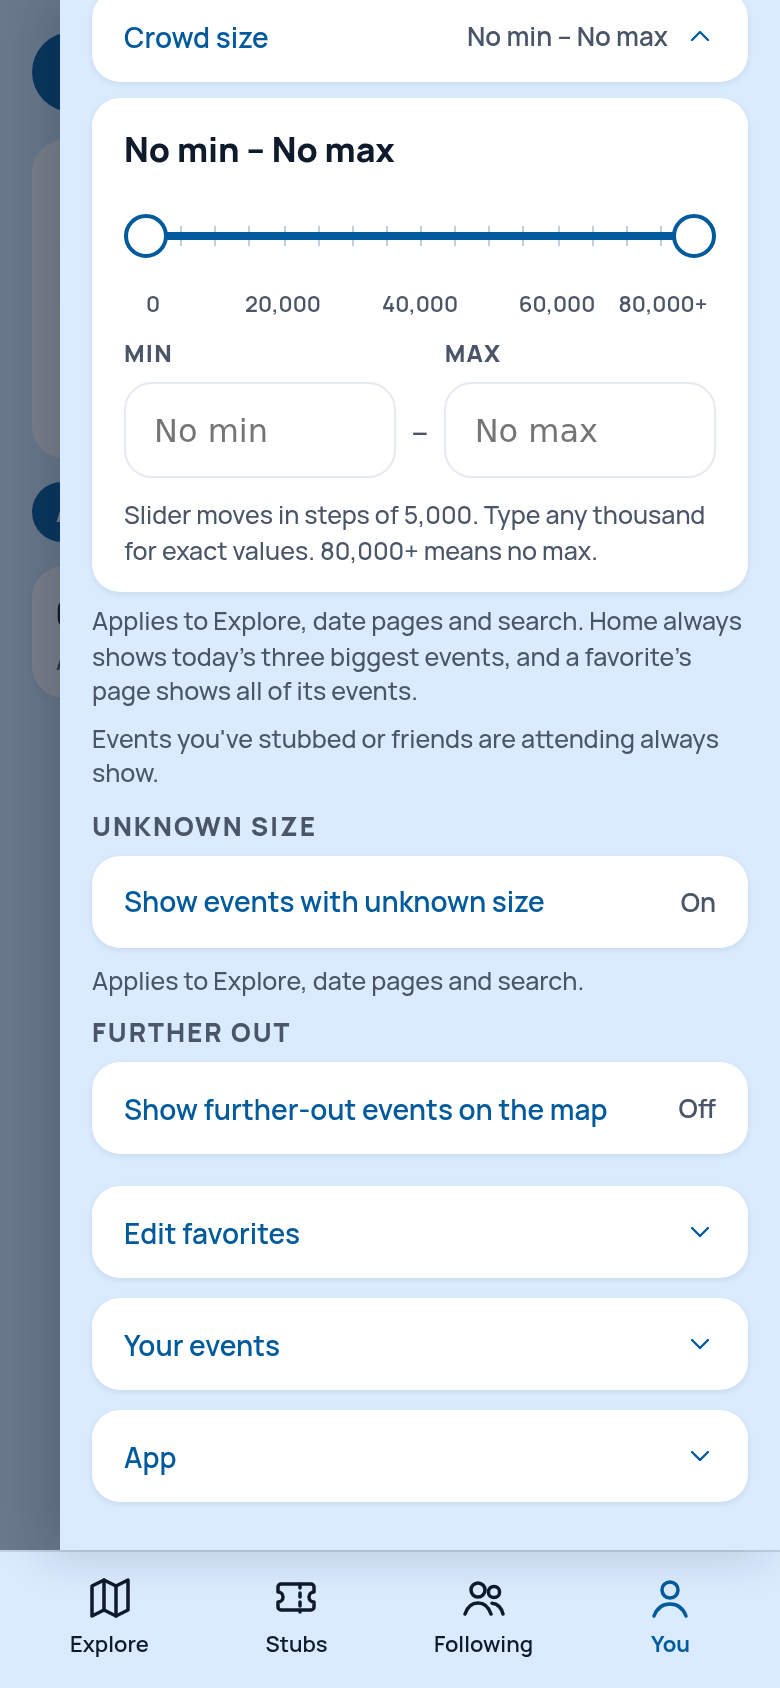
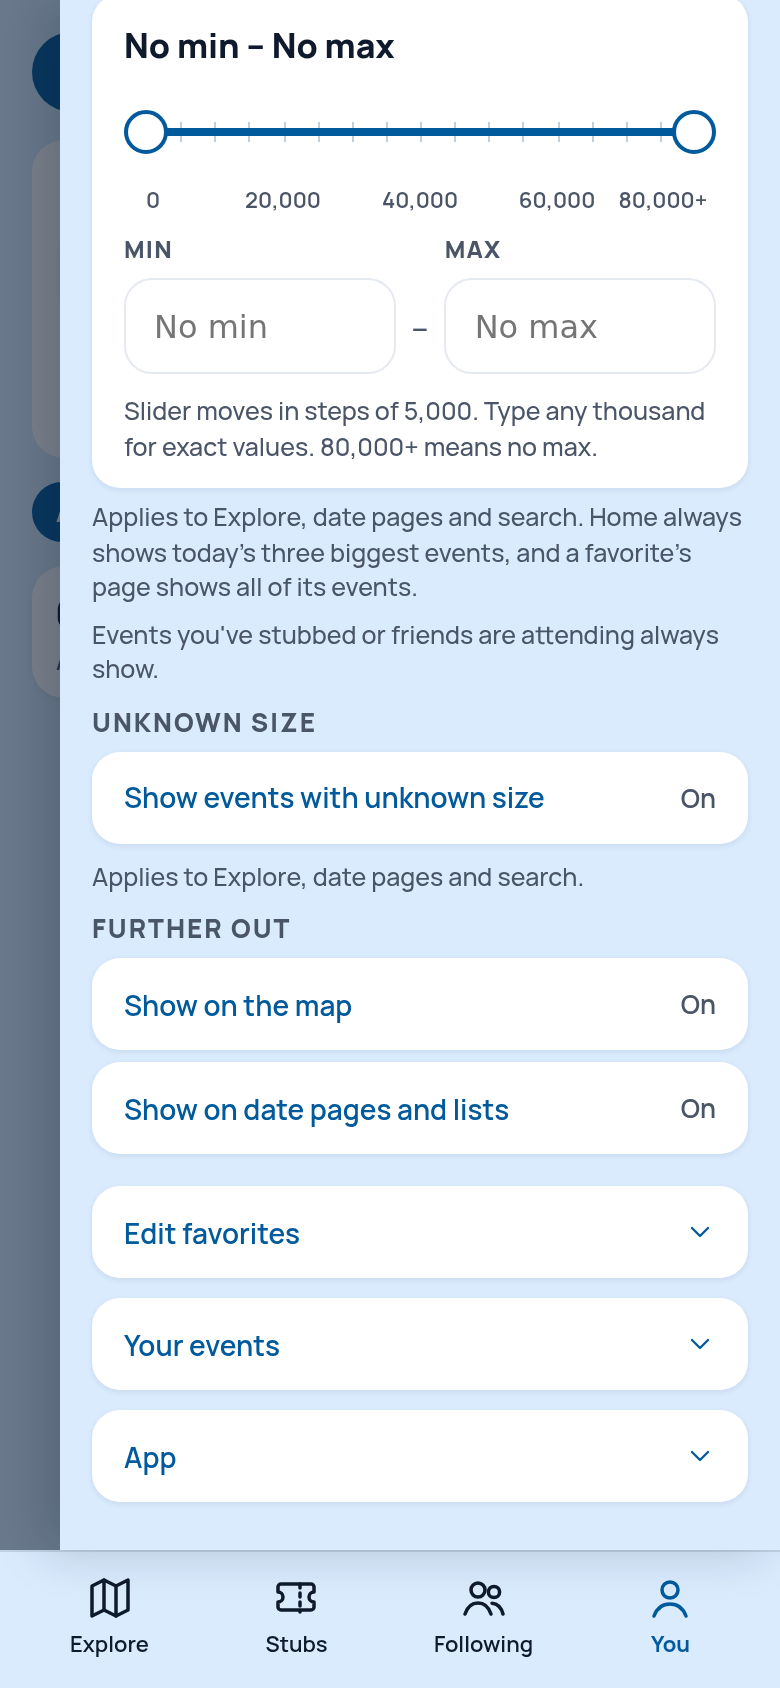
"Further out": separate switches for the map and for lists, both on, favorites always shown (Kylie, Oct 19, 2026, evening, multiple choice). The mock is redone to match: Settings › Crowd size carries "Show on the map" and "Show on date pages and lists" under a Further out heading, and a new Explore 

Changed region(s): [[0.0923, 0.0, 0.9846, 0.6777]]

diff --git a/docs/product/product-decisions.md b/docs/product/product-decisions.md
@@ -287,3 +287,5 @@ Each entry: the decision, why, and what was rejected. Provenance per line: "Kyli
 - **Search offers an artist only from an act the seller names (Kylie, Oct 19, 2026, afternoon: "let's do R16"; tester-readiness review R16).** The search sheet's follow pills come from records and from the hit's own lists: a team or a venue when a record carries the matched name; an artist from a show's or a special's performer when the seller lists that performer as an act (the Ticketmaster source now writes `act` on every listing, true when the feed names an attraction, false when the listing's own name stands in; hand seeds and research loads carry no flag and count as acts); a festival by its title, in a Festivals group of its own. A game's title is never an artist; its teams are the follow target, through the team records. **Why:** the sheet had filed every leftover matched name as an artist, so "…Lonestar Showcase: UTWBB vs UCLA" and a gala's name were offered as artists. **Rejected:** telling an act from a production by the seller's genre word (comedians sit under Miscellaneous and Undefined as often as under Comedy; the archive showed the split lands wrong either way); the performer differing from the title as the signal (it offers "Moody Amp Social Club" and loses "Jo Koy"). **Takes effect** for rows captured from the Oct 20 run; older rows are treated as acts until re-captured.
 - **Five promoters and sellers stay unlisted (Kylie, Oct 19, 2026, evening: "i won't be emailing framework, although you can note all of these limitations/restrictions on the appropriate documentation").** AXS, DICE, Insomniac, Goldenvoice and Framework are not read as sources, and none is asked for consent. Their terms forbid automated reading (AXS, DICE, Insomniac; Framework without permission) or could not be read (Goldenvoice); AXS and DICE offer listings only through partner deals. What they also list on Ticketmaster already reaches the app; the rest can be logged by hand. **Why:** no source here is open under terms that allow it, and asking is her call. **Where it is recorded:** `docs/product/build-brief.md` (accepted limitation) and `docs/reference/data-sources.md` (per seller, with the deciding clause). **Rejected:** emailing Framework for its iCal feed, the one cheap ask.
 - **Kylie's Oct 19, 2026 (evening) answers, by multiple choice, each the builder's lean.** **(1) Rankings: yes** to filling the event title's rank (build 6, M3-08) from the poll rank ESPN's team schedules already carry (`curatedRank`, the AP poll, or the College Football Playoff ranking once published; 99 means unranked), the rank going into each game; no new source, no cost; seeds not taken up. **(2) Regional events: "Further out", no score.** Events within about a 2-hour drive of a covered city's core show in a "Further out" group on the date page and an optional map layer; they never change the city's verdict (the regional research's rule 3). Mock first. **(3) Ticket add-ons: build the layered rule now** (`docs/research/topics/ticket-addon-filter-answer.md`, section 4.2) on Ticketmaster's own fields, checked against the saved sample before it ships, rather than waiting for SeatGeek. **(4) Multi-day sizing: the proposal's yes rows, the same answer as her Oct 16 "go with your lean"** (above, "One day of a multi-day event is sized by the kind of figure published"). The builder asked again from a stale BACKLOG line; the rule was already built Oct 16, so nothing changed. **Rejected:** "Regional" as the group's name; letting further-out events count toward the verdict; logging before building the add-on rule; adopting the held sizing rows.
+- **"Further out": how it is shown (Kylie, Oct 19, 2026, evening, multiple choice).** **Separate switches**, both in Settings › Crowd size under a "Further out" heading: one for the map, one for lists (date pages, the Explore List, search). **Both start on.** **A favorite's further-out event always shows** on its page and the Following timeline, whatever the switches say (like stubs and friends' plans over the crowd range). Whatever the switches say, a further-out event never counts toward a verdict. **Rejected:** one switch for everything (the builder's lean); the first mock's date-page-always, map-only switch; no switch; off by default.
+

diff --git a/docs/product/further-out-proposal.md b/docs/product/further-out-proposal.md
@@ -2,6 +2,8 @@
 
 Claude Code, Oct 19, 2026 (evening). Status: open, waiting on Kylie's yes to the mock.
 
+**Updated the same evening (Kylie, multiple choice):** separate switches for the map and for lists (date pages, the Explore List, search), both on by default; a favorite's further-out event always shows on its page and Following. The screenshots below are redone to match.
+
 **Decided already (Kylie, Oct 19, 2026, evening, multiple choice):** big events within about a 2-hour drive of a covered city's core show in a "Further out" group on the date page and an optional map layer. They never change the city's verdict (the regional research's rule 3, `docs/build-5/research/regional-events-research-answer.html`). This page is only the look, for her yes before any code (mock first).
 
 ## The mock (Los Angeles, Fri Oct 30, 2026, at phone size)
@@ -10,9 +12,13 @@ Claude Code, Oct 19, 2026 (evening). Status: open, waiting on Kylie's yes to the
 
 ![Further out on the date page](further-out-mock-date.png)
 
-**Map layer:** a switch in Settings › Crowd size, beside "Show events with unknown size", off by default. When on, further-out events show on the map as muted chips, the way small rooms do, with no friction ring.
+**Explore List:** further-out rows close each day, under a small "Further out" heading, same rows, no ring.
 
-![The map switch in Settings](further-out-mock-settings.png)
+![Further out in the Explore List](further-out-mock-list.png)
+
+**Settings › Crowd size:** a "Further out" heading with two switches, "Show on the map" and "Show on date pages and lists", both on by default. On the map, further-out events show as muted chips, the way small rooms do, with no friction ring; they sit outside the city, so they only appear when the map is zoomed out.
+
+![The two switches in Settings](further-out-mock-settings.png)
 
 Escape Halloween (Insomniac, NOS Events Center, San Bernardino, Oct 30–31) is the example row: 62k is half of the 125,000 reported over two nights in 2017, labeled estimated. Its tickets sell through Front Gate, which the app can't read (Oct 19 seller-terms decision), so it would come from the hand-kept festival list, not a feed.
 
@@ -24,9 +30,10 @@ Escape Halloween (Insomniac, NOS Events Center, San Bernardino, Oct 30–31) is 
 - **What it never does:** change the verdict, take a friction word, or count toward the day's total.
 
 ## Leans she may change
-- The card shows only when there is at least one further-out event that day, and always sits under the lineup.
-- No line under the switch explaining it (the copy rule: users are not dumb).
+- The card (and the List's heading) shows only when there is at least one further-out event that day, and always sits after the day's own events.
+- No line under the switches explaining them (the copy rule: users are not dumb).
+- Search follows the lists switch.
 - The row's second line: "NOS Events Center · San Bernardino · 1 hr drive". The drive could drop to save space.
 
-## Not in this step
-A further-out event in the Explore List, search, or a favorite's page. They follow the date page if she wants them.
+## Decided with it
+A favorite's further-out event always shows on its page and the Following timeline, whatever the switches say.
